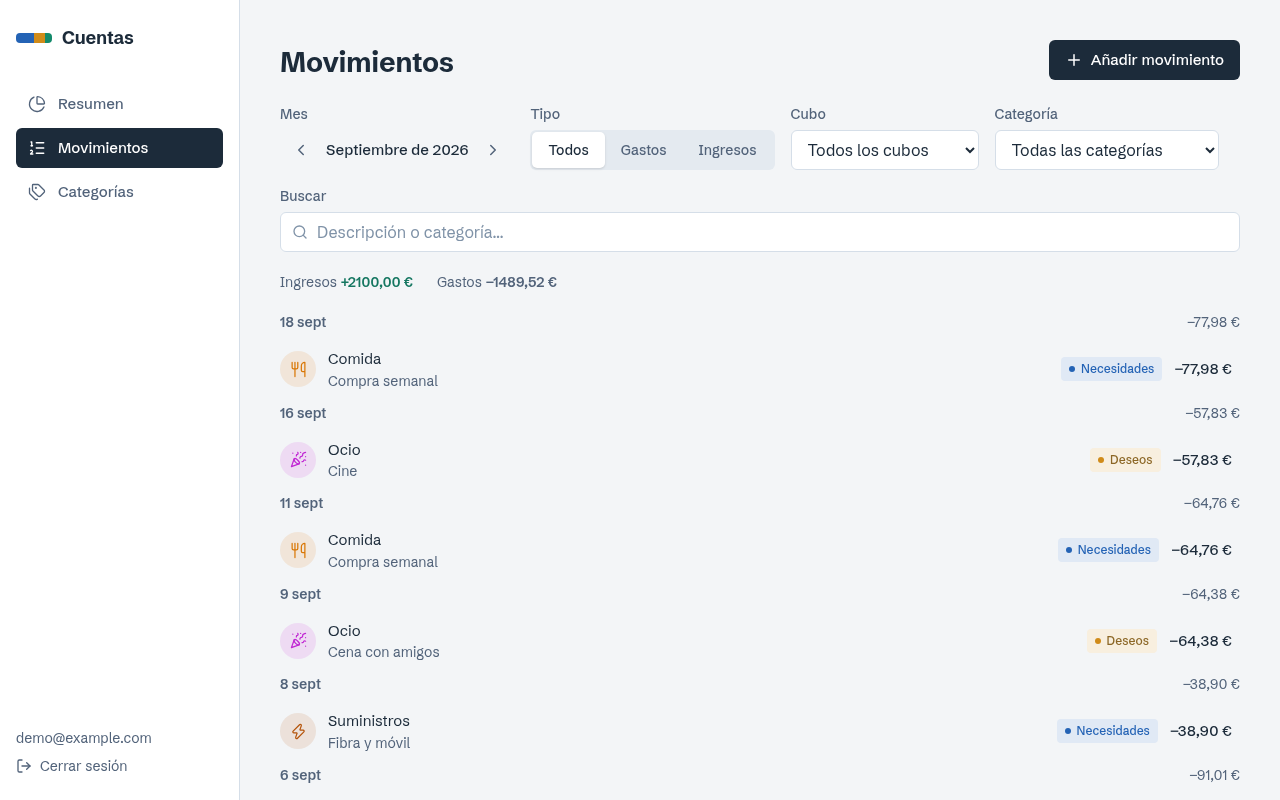
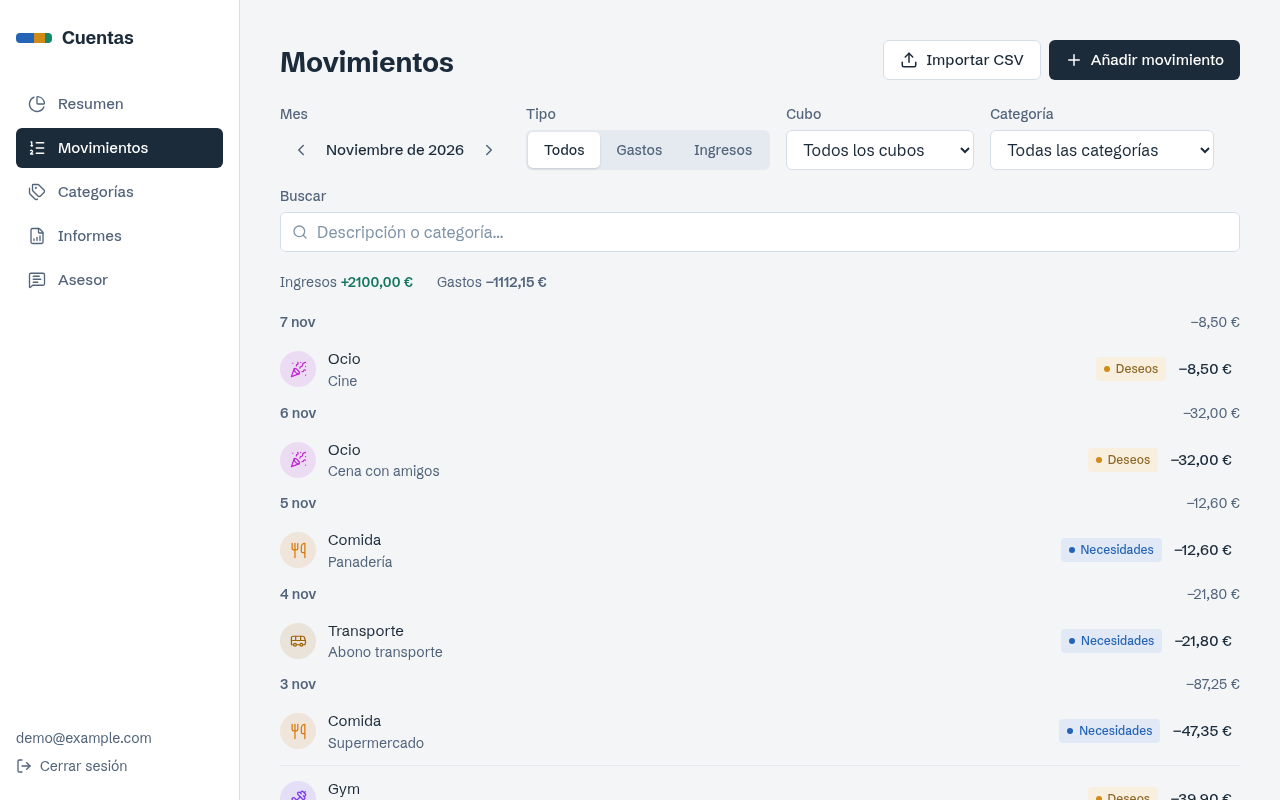
README: corregido y con capturas nuevas de todas las pantallas
Capturas rehechas con datos ficticios, incluidas Informes, Importar y
Asesor (análisis real del modelo, sin retocar).

Corrige afirmaciones que no eran ciertas: la importación no es
multidivisa ni admite columnas separadas de cargo y abono, las fechas
ambiguas solo se resuelven a favor de día/mes, y el mapeo se recuerda por
las cabeceras del fichero. Quita lo que se repetía entre secciones y pasa
la cancelación en Ollama a funciones del asesor.

diff --git a/README.md b/README.md
@@ -9,7 +9,7 @@ un LLM local analiza cada mes y responde preguntas sobre tus datos.
 
 ![Resumen del mes: reparto 50/30/20, detalle por cubo y evolución](docs/capturas/resumen.png)
 
-<sub>Capturas con datos ficticios, anteriores a Informes, Importar y Asesor, que aún no aparecen en ellas.</sub>
+<sub>Todas las capturas usan una cuenta y unos datos de demostración ficticios.</sub>
 
 ## Qué hace
 
@@ -21,10 +21,9 @@ un LLM local analiza cada mes y responde preguntas sobre tus datos.
 - **Evolución.** Los últimos meses en barras apiladas, con la línea de ingresos encima.
 - **Movimientos.** Alta rápida (escribes `12,50`, eliges una categoría y pulsas Enter), filtros por
   mes, tipo, cubo, categoría y texto, y una lista agrupada por días con subtotales.
-- **Importar desde el banco.** Subes el CSV de tu banco, eliges qué columna es la fecha, el importe y
-  el concepto, y ves una previsualización antes de confirmar. Reimportar un extracto que se solapa
-  con otro no duplica nada, y la categoría se sugiere a partir de cómo categorizaste antes los
-  movimientos con la misma descripción.
+- **Importar desde el banco.** Subes el CSV de tu banco, eliges qué columna es cada dato y revisas los
+  movimientos antes de confirmar. Reimportar un extracto que se solapa con otro no duplica nada, y la
+  categoría se sugiere a partir de cómo categorizaste antes los movimientos con la misma descripción.
 - **Informes.** Por semana, mes o año, con comparación con el periodo anterior, cubos frente a su
   objetivo, desglose por categoría, mayores movimientos y avisos automáticos. Se exportan a PDF y CSV.
 - **Categorías editables.** Vienen de serie alquiler, comida, suministros, transporte, gym, ropa, ocio
@@ -36,6 +35,10 @@ un LLM local analiza cada mes y responde preguntas sobre tus datos.
 - **Un solo usuario.** La primera cuenta que se registra es la única; después, el registro se cierra.
 - **Adaptada a móvil.** Barra de navegación inferior, alta de movimientos a un toque y filtros plegables.
 
+| Informes | Importar desde el banco | Asesor |
+|---|---|---|
+| ![Informe mensual con indicadores, evolución por día, gastos por categoría y reparto por cubos](docs/capturas/informes.png) | ![Revisión de una importación con categorías sugeridas y una fila con error](docs/capturas/importar.png) | ![Análisis mensual generado por el modelo local](docs/capturas/asesor.png) |
+
 | Movimientos | Añadir un movimiento | Categorías |
 |---|---|---|
 | ![Lista de movimientos](docs/capturas/movimientos.png) | ![Diálogo de alta](docs/capturas/nuevo-movimiento.png) | ![Categorías por cubo](docs/capturas/categorias.png) |
@@ -43,6 +46,9 @@ un LLM local analiza cada mes y responde preguntas sobre tus datos.
 | Acceso | Móvil: resumen | Móvil: movimientos |
 |---|---|---|
 | ![Pantalla de acceso](docs/capturas/acceso.png) | ![Resumen en móvil](docs/capturas/movil-resumen.png) | ![Movimientos en móvil](docs/capturas/movil-movimientos.png) |
+
+<sub>El análisis del asesor es la salida real del modelo de 4B, sin retocar, y se ven sus límites: dice que la
+inversión bajó cuando fue la misma que el mes anterior.</sub>
 
 ## Cómo se calcula el 50/30/20
 
@@ -55,35 +61,41 @@ un LLM local analiza cada mes y responde preguntas sobre tus datos.
   0 % de ahorro, y eso sería falso. En el mes en curso la app avisa de que esta cifra irá bajando
   hasta fin de mes.
 - Los gastos sin categoría no cuentan en ningún cubo, pero sí reducen el ahorro.
-- Resumen e informes usan la misma fórmula, así que dan la misma cifra para el mismo mes.
+- Resumen e informes usan la misma fórmula (`summary::calc::savings_cents`), así que dan la misma cifra
+  para el mismo mes, y muestran aparte la parte no gastada.
 
-## Importación de extractos bancarios
+## Importar extractos del banco
 
-Cualquier banco permite descargar un fichero CSV con los movimientos, pero no hay dos que usen el
-mismo formato: cambian los nombres de columna, las fechas, los separadores decimales y los signos.
-La importación está diseñada para absorber cualquier extracto sin duplicar movimientos al solapar meses.
+Cada banco exporta un CSV distinto: cambian las columnas, el formato de las fechas, el separador decimal y
+cómo se marca un cargo. La importación no depende de un formato concreto:
 
-- **Flujo en cuatro pasos.** Subida del fichero (detecta UTF-8 y Windows-1252), asignación de columnas
-  con muestra real de filas, previsualización en el servidor y confirmación atómica en la base de datos.
-  El mapeo de columnas se recuerda en el navegador por nombre de entidad, sin almacenar movimientos.
-- **Idempotencia con huella anti-duplicados.** Cada apunte importado genera una huella (`import_ref`,
-  migración `0003`) calculada a partir de la fecha, el importe, el tipo (ingreso o gasto), la descripción
-  o referencia del extracto y su número de aparición en el fichero. Si descargas el extracto de los
-  últimos tres meses cuando ya habías importado los dos anteriores, la app detecta los repetidos y solo
-  crea los nuevos. La referencia bancaria sola no basta porque en recibos recurrentes se repite mes a mes.
-- **Detección y resolución de fechas ambiguas.** Si un fichero tiene fechas como `03/04/2026`, puede ser
-  3 de abril o 4 de marzo. El parser evalúa todas las filas del fichero: si una interpretación abarca un
-  intervalo de fechas significativamente más coherente y estrecho, se selecciona automáticamente. Si ambas
-  son plausibles, la API responde `422 ambiguous_date` y el asistente pide al usuario que elija el orden
-  (día/mes o mes/día) en vez de arriesgarse a guardar fechas erróneas.
-- **Formatos numéricos y multidivisa.** Soporta coma o punto decimal, separadores de miles con espacio o
-  punto, signo negativo delante (`-12,50`), detrás (`12,50-`) o entre paréntesis, y tanto columnas de importe
-  único con signo como columnas separadas para cargo y abono. Limpia símbolos (`€`, `$`) y códigos (`EUR`, `USD`).
-- **Sugerencia de categorías.** Si en movimientos anteriores categorizaste "MERCADONA" como Comida, la
-  previsualización sugiere automáticamente esa categoría para los movimientos con la misma descripción.
-- **Protección contra ficheros hostiles.** Límite de 2 MB y 5.000 filas por fichero, conteo preliminar de
-  separadores para descartar líneas degeneradas, análisis fuera del runtime asíncrono con `spawn_blocking` y
-  saneamiento estricto de caracteres invisibles y bytes NUL (`\0`) que harían fallar a PostgreSQL.
+- **Cuatro pasos.** Fichero, columnas, revisión y resultado. El fichero se lee como UTF-8 y, si no lo es,
+  como windows-1252, la codificación habitual de muchos bancos españoles. El servidor detecta el separador
+  y muestra una muestra de filas para elegir qué columna es la fecha, el importe, la descripción y, si hay,
+  la referencia. Ese mapeo se recuerda en el navegador para los ficheros con las mismas cabeceras, sin
+  guardar ningún movimiento. Al confirmar, todo se inserta en una sola transacción.
+- **Sin duplicados al reimportar.** Cada movimiento importado guarda una huella (`import_ref`) de fecha,
+  importe, tipo y referencia del banco (o, si no hay, la descripción normalizada), más su número de
+  aparición en el fichero. Si importas tres meses cuando ya tenías los dos primeros, solo entran los nuevos,
+  y dos cafés idénticos el mismo día siguen siendo dos. La referencia sola no basta: la de un recibo
+  domiciliado se repite cada mes.
+- **Fechas ambiguas.** `03/04/2026` puede ser 3 de abril o 4 de marzo. Si las dos lecturas valen para todo el
+  fichero, la app solo decide por día/mes (su formato) y solo cuando esa lectura abarca menos de la mitad de
+  tiempo que la otra: un extracto es un periodo seguido. En cualquier otro caso responde `422 ambiguous_date` y te pide
+  que elijas el formato en vez de guardar fechas equivocadas.
+- **Importes de cualquier banco.** Coma o punto decimal, miles con punto o con espacio, y un solo signo
+  delante (`-12,50`), detrás (`12,50-`) o como paréntesis contables (`(12,50)`). El importe va en una sola
+  columna con signo, que se puede invertir para los bancos que exportan los cargos en positivo. Se admite
+  un símbolo o código de moneda junto a la cifra (`€`, `$`, `£`, `EUR`, `USD`, `GBP`), pero no se convierte:
+  la app trabaja con una sola moneda.
+- **Categoría sugerida.** La más usada en tus movimientos anteriores del mismo tipo con la misma descripción
+  normalizada (minúsculas, sin cifras ni espacios repetidos). Lo que categorizas hoy mejora las sugerencias
+  de mañana.
+- **Filas con error a la vista.** Una fila que no se puede leer, como el «Saldo final» de muchos extractos,
+  se marca con su motivo y no se importa, sin bloquear el resto.
+- **Ficheros hostiles.** Como máximo 2 MB y 5.000 filas, con conteo previo de separadores, un fichero a la
+  vez y fuera del runtime async (`spawn_blocking`): un CSV malicioso no dispara la memoria ni bloquea el
+  servidor. Las descripciones pierden los caracteres de control e invisibles de formato.
 
 ## Asesor con IA local
 
@@ -97,11 +109,14 @@ y se las pasa al modelo, al que el prompt prohíbe usar cifras que no estén en 
   finanzas y no dispone de herramientas que escriban. El `user_id` lo pone Rust a partir de la sesión.
 - **Texto no fiable tratado como tal.** Las descripciones de los movimientos pueden venir de un banco o
   de terceros: van delimitadas como datos y el prompt ordena ignorar cualquier instrucción dentro.
+- **Datos sensibles fuera.** IBAN, URL, correos, teléfonos y direcciones cripto se sustituyen por
+  `[dato omitido]` en las descripciones que recibe el modelo y en todo lo que se guarda en la memoria.
 - **Tus datos no salen.** Se usa Ollama en tu máquina. `OLLAMA_URL` solo admite esta máquina o `https`, y
   el servicio no arranca si detecta activadas las trazas de LangChain hacia LangSmith.
 - **Para hardware modesto.** Un modelo de 4B cuantizado (unos 3,3 GB de memoria), una generación a la vez
   y análisis guardados en vez de recalculados. Un análisis tarda unos 90 s en una CPU moderna limitada a
-  4 hilos y entre 8 y 13 s con una GPU dedicada de gama media.
+  4 hilos y entre 8 y 13 s con una GPU dedicada de gama media. Si detienes la generación o cierras la
+  página, también se cancela en Ollama, incluso antes del primer token, y no se guarda nada.
 
 Límite conocido: un modelo tan pequeño recibe cifras exactas, pero a veces las interpreta mal; por ejemplo,
 confunde "% del gasto" con "% de los ingresos". Sus conclusiones son las de un asistente, no las de un informe.
@@ -130,34 +145,14 @@ navegador ──/api (proxy de Vite)──▶ backend Rust :8080 ──▶ Postg
 - **Dinero en enteros de céntimos.** Nunca en coma flotante, para que no haya errores de redondeo.
 - **Mismo origen gracias al proxy.** Para el navegador, frontend y API son el mismo origen: la cookie de
   sesión funciona sin CORS y el token nunca está al alcance de JavaScript.
-- **Reimportar sin duplicar.** Cada movimiento importado guarda una huella de fecha, importe, tipo y
-  descripción o referencia del banco, más su n.º de aparición dentro del fichero. La referencia sola no
-  basta: la de un recibo se repite cada mes.
-- **Fechas ambiguas.** Si un CSV se puede leer como día/mes o como mes/día, la app solo decide cuando una
-  lectura abarca claramente menos tiempo. Si no, te pide que elijas el formato en vez de adivinarlo.
-- **CSV hostiles.** Como máximo 2 MB y 5.000 filas, con conteo previo de separadores, un fichero a la vez y
-  fuera del runtime async: un fichero malicioso no dispara la memoria ni bloquea el servidor.
-- **Inyección de fórmulas en exportaciones CSV.** Al exportar movimientos o categorías (`/api/reports/export.csv`),
-  los campos que empiezan por `=`, `+`, `-` o `@` se neutralizan con una comilla simple (`'`) para evitar que
-  Excel o LibreOffice Calc interpreten el texto como fórmulas dinámicas ejecutables.
-- **Límites de importe y fecha contra desbordamiento.** Los movimientos limitan el importe a un máximo de
-  1.000 millones de euros y las fechas al intervalo 2000-2100. Esto protege las agregaciones en PostgreSQL
-  (`SUM(amount_cents)`) contra desbordamientos de `BIGINT` que dejarían el resumen del mes en 500.
-- **Fórmula de ahorro unificada y transparente.** La definición de ahorro vive en una función pura compartida
-  (`summary::calc::savings_cents`). Resumen, cubos e informes calculan exactamente lo mismo e informan del
-  remanente no gastado (`unspent_cents`) tanto en pantalla como en el PDF descargable.
-- **PDF vectorial generado en el navegador.** jsPDF dibuja el informe directamente en el cliente. Para no
-  engordar la carga inicial de la aplicación, la librería se descarga mediante importación dinámica solo al
-  pulsar el botón de exportación, y la página de informes reside en su propio chunk.
-- **Anonimización de datos sensibles (PII) en el asesor.** Antes de indexar en pgvector o persistir recuerdos,
-  un filtro sustituye IBANs, URLs, correos electrónicos, teléfonos y direcciones cripto por `[dato omitido]`,
-  evitando que información bancaria confidencial contamine la memoria a largo plazo.
-- **La BD es un servicio.** Si Postgres depende de una terminal o de un proceso suelto, el apagado del equipo
-  puede cortarlo en mitad del checkpoint y corromper el clúster. Como servicio, systemd le envía SIGINT
-  (apagado rápido y limpio) y espera a que termine antes de desmontar el almacenamiento del contenedor.
-- **Aislamiento de procesos y señales en `dev.sh`.** Backend, frontend y asesor se lanzan en grupos de procesos
-  separados (`setsid`). Si se pulsa Ctrl+C, un manejador envía SIGTERM a cada grupo y espera hasta 10 segundos
-  antes de forzar SIGKILL, evitando procesos huérfanos que dejen puertos ocupados.
+- **CSV exportados sin fórmulas.** En las exportaciones de movimientos y por categoría, el texto que empieza
+  por `=`, `+`, `-`, `@`, tabulador o retorno de carro lleva delante una comilla simple, para que Excel o
+  LibreOffice no lo ejecuten como fórmula.
+- **PDF en el navegador y bajo demanda.** jsPDF dibuja el informe con primitivas vectoriales en el cliente.
+  La librería solo se descarga al pulsar «Descargar PDF», y la página de informes va en su propio chunk.
+- **Arranque de desarrollo sin procesos huérfanos.** `dev.sh` lanza backend, frontend y asesor cada uno en su
+  grupo de procesos (`setsid`). Con Ctrl+C manda SIGTERM a cada grupo, espera hasta 10 s y solo entonces
+  fuerza SIGKILL, para no dejar puertos ocupados.
 
 ### Fallos que solo salieron probándolo de verdad
 
@@ -168,21 +163,19 @@ navegador ──/api (proxy de Vite)──▶ backend Rust :8080 ──▶ Postg
   y se validó (ΔE ≥ 11), y el texto se separó en variantes con contraste AA.
 - La evolución dibujaba **una caída falsa a 0 €** en los meses anteriores al primer movimiento.
 - La fuente separaba la coma decimal de las cifras ("2100 , 00 €").
-- **Desbordamiento de `SUM(...)` en PostgreSQL con cifras grandes.** Al ingresar importes de prueba muy elevados,
-  la suma agregada desbordaba `BIGINT` en la base de datos y devolvía 500 para todo el mes hasta vaciar los
-  registros a mano. Se atajó con restricciones `CHECK` en SQL, validación en axum y límites en el formulario.
-- **`PANIC` en el checkpoint de Postgres al apagar el equipo.** Si el contenedor corría dependiente de un proceso
-  de terminal, systemd desmontaba `fuse-overlayfs` en paralelo mientras Postgres estaba cerrando transacciones.
-  Convertir el contenedor en unidad Quadlet de systemd aseguró una parada ordenada con `SIGINT` de hasta 60 segundos.
-- **Tres cifras de ahorro contradictorias para un mismo mes.** El resumen calculaba un 30 % (inversión más
-  remanente), la tasa de ahorro de informes mostraba un 10 % (solo el neto) y el cubo de ahorro un 20 % (solo
-  inversión). La fórmula se unificó en un único módulo y se explicitó el remanente no gastado en la interfaz.
-- **Caracteres NUL (`\0`) y bytes invisibles en extractos bancarios.** Un extracto real con bytes nulos provocaba
-  un error 500 no capturado al intentar persistir la descripción en PostgreSQL. Ahora las cadenas se limpian de
-  caracteres de control e invisibles de formato antes de llegar a la base de datos.
-- **Consumo persistente de CPU en Ollama tras cerrar la pestaña.** Si el usuario detenía la generación o cambiaba
-  de pantalla, el backend cerraba la conexión HTTP pero Ollama continuaba computando tokens durante minutos. Se
-  enlazó la desconexión del cliente HTTP con la cancelación de la petición en Ollama.
+- **Dos importes enormes en un mes desbordaban `SUM(...)::BIGINT`**, y el resumen y los informes de ese mes
+  respondían 500 hasta borrarlos. Ahora el importe tiene un tope de 1.000 millones de euros y la fecha va de
+  2000 a 2100, el mismo rango que aceptan los informes. Se valida en el formulario, en la API y con `CHECK`
+  en la BD.
+- **Postgres entraba en `PANIC` al apagar el equipo.** Mientras la BD dependía de una terminal, el apagado
+  desmontaba el almacenamiento del contenedor (`fuse-overlayfs`) en mitad del checkpoint y podía corromper el
+  clúster. Ahora es un servicio Quadlet de systemd: recibe SIGINT (apagado rápido y limpio) y systemd espera
+  hasta 60 s a que termine antes de desmontar nada.
+- **Tres cifras de ahorro distintas para el mismo mes.** Con 2.000 € de ingresos, 1.400 € gastados en
+  necesidades y deseos y 400 € invertidos, el resumen daba un 30 % (lo invertido más lo no gastado), la tasa de ahorro de informes un 10 %
+  (solo el neto) y el cubo de ahorro un 20 % (solo lo invertido). Ahora hay una sola fórmula para todo.
+- **Un carácter NUL en una descripción daba 500** al guardarla en PostgreSQL. Ahora las descripciones, también
+  las del alta manual, se limpian de caracteres de control e invisibles antes de llegar a la BD.
 
 ## Arrancar en local
 
@@ -237,11 +230,11 @@ Es una app para uso local o en una red de confianza, y todavía no está prepara
 - **Las sesiones no se revocan.** Cerrar sesión borra la cookie, pero el token sigue siendo válido hasta que
   caduca (30 días por defecto, `SESSION_HOURS`).
 - **Argon2 no tiene límite de concurrencia.** Muchos intentos de acceso simultáneos podrían agotar la memoria.
-- **El banco solo entra por CSV.** La sincronización automática está analizada en
+- **Sin recuperación de contraseña.** Si la olvidas, hay que cambiar su hash en la BD a mano.
+- **Una sola moneda.** Los importes no llevan divisa ni hay conversión entre monedas.
+- **El banco solo entra por CSV, y sin distinguir cuentas.** El mismo movimiento (fecha, importe y descripción)
+  en dos cuentas cuenta como duplicado. La sincronización automática está analizada en
   [`docs/BANCO.md`](docs/BANCO.md), pero sin implementar.
-- **Sin recuperación de contraseñas.** Al ser una instalación monousuario local, si olvidas la clave debes
-  restablecerla directamente en la base de datos.
-- **Monodivisa.** Todos los importes se registran en céntimos de la misma moneda; no soporta cambio entre divisas.
 - **Sin CI y sin tests automáticos en el frontend.** Las pruebas de la tabla anterior se lanzan a mano.
 
 ## Estructura
